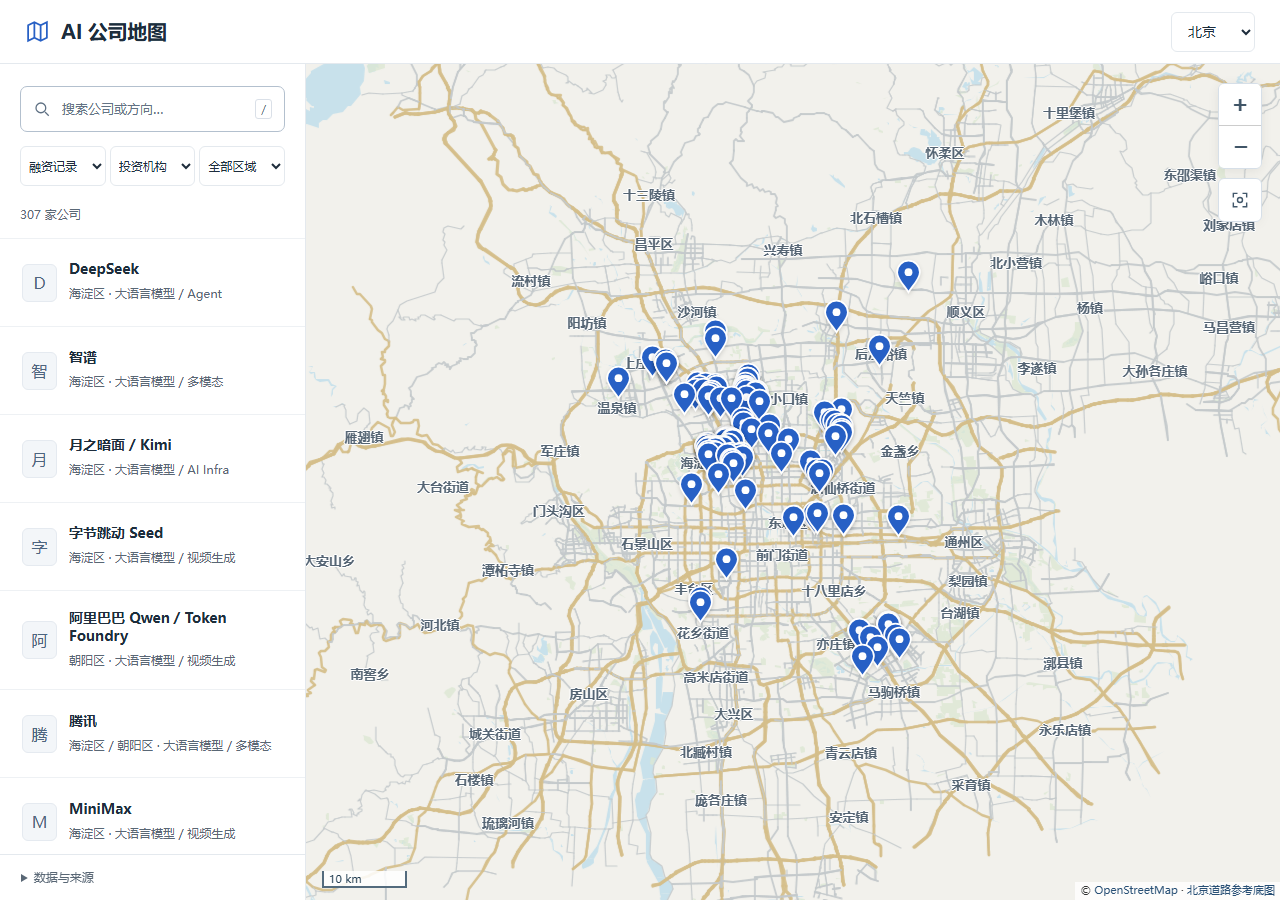
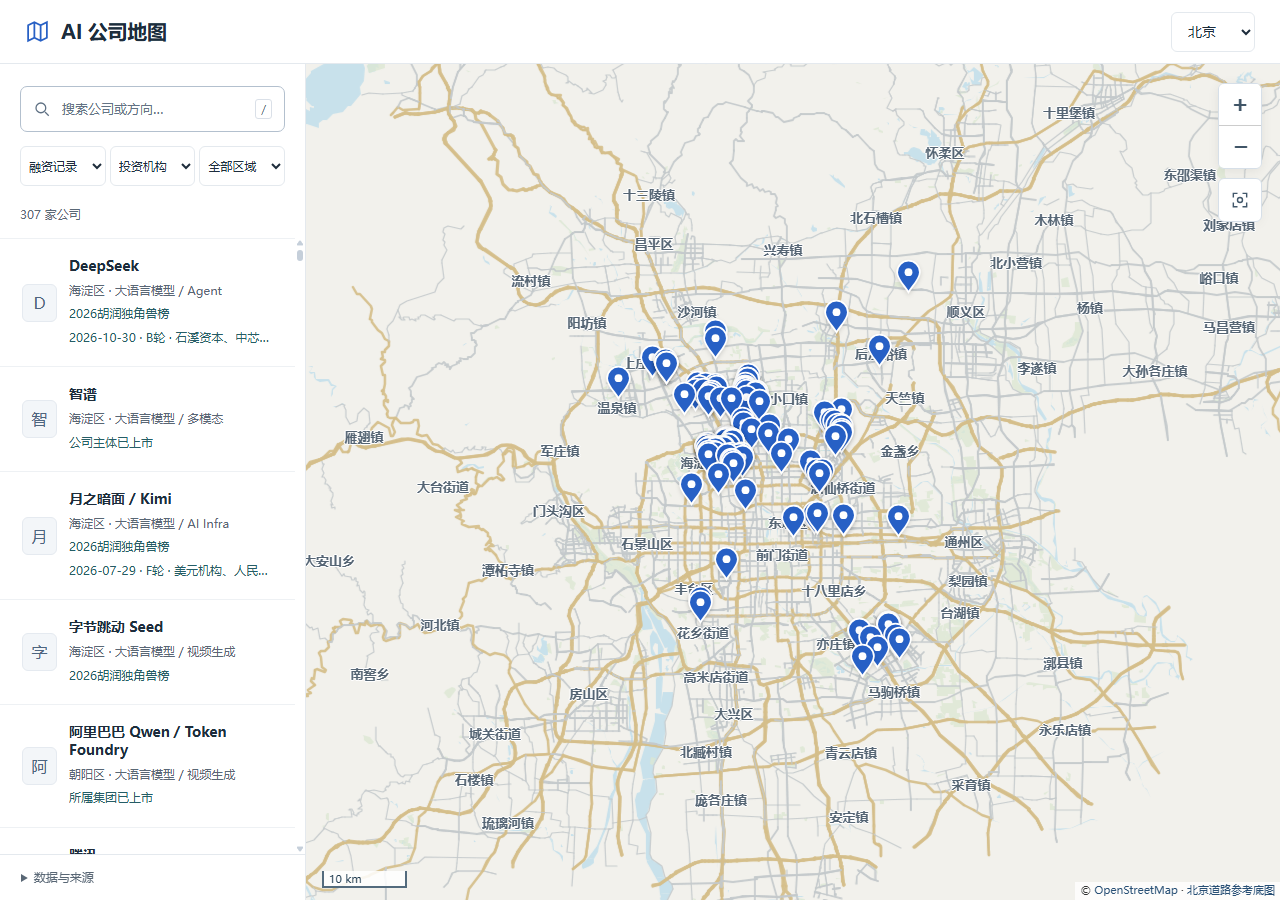
Refresh walkthrough screenshots for 2026 financing evidence

Changed region(s): [[0.0, 0.28, 0.2188, 0.9333]]

diff --git a/docs/FINANCE-2026.md b/docs/FINANCE-2026.md
@@ -1,6 +1,6 @@
 # 北京公司融资与上市核验 2026
 
-核验日期为 2026 年 11 月 14 日，范围为北京目录的 307 个公司 ID。所有用于本次融资、上市和独角兽结论的来源均在 2026 年发布、出具或生成。历史交易发生时间与来源发布日期分别保留。
+核验日期为 2026 年 11 月 14 日，范围为北京目录的 307 个公司 ID。所有用于本次融资、证券状态和独角兽结论的来源均在 2026 年发布、出具或生成。历史交易发生时间与来源发布日期分别保留。
 
 307 条记录均有核验状态和字段。200 家在本次来源范围内至少匹配到一类有效证据，107 家尚未匹配到这三类可确认信息。阶段分组中有 130 家待核准，其中也包括仅确认到独角兽榜身份、尚未确认融资轮次或上市身份的公司。
 

diff --git a/docs/README.md b/docs/README.md
@@ -4,7 +4,7 @@
 
 ## 公司阶段与数据覆盖
 
-阶段核验已更新为 2026 年来源版本，覆盖 307 行公司记录。72 家有主体或集团上市证据，1 家为新三板挂牌；99 家有具名融资轮次，5 家融资未具名，130 家阶段分组待核准。200 家至少匹配到一种融资、上市或独角兽证据。
+阶段核验已更新为 2026 年来源版本，覆盖 307 行公司记录。72 家有主体或集团上市证据，1 家为新三板挂牌；99 家有具名融资轮次，5 家融资未具名，130 家阶段分组待核准。200 家至少匹配到一种融资、证券状态或独角兽证据。
 
 ![阶段核验](images/stage-overview-2026.png)
 
